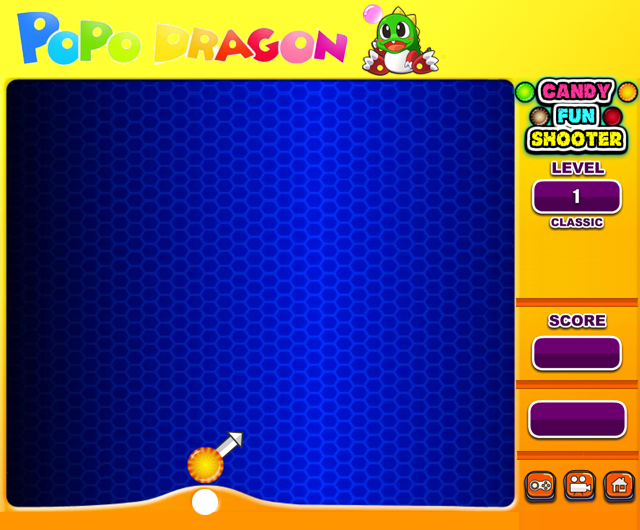
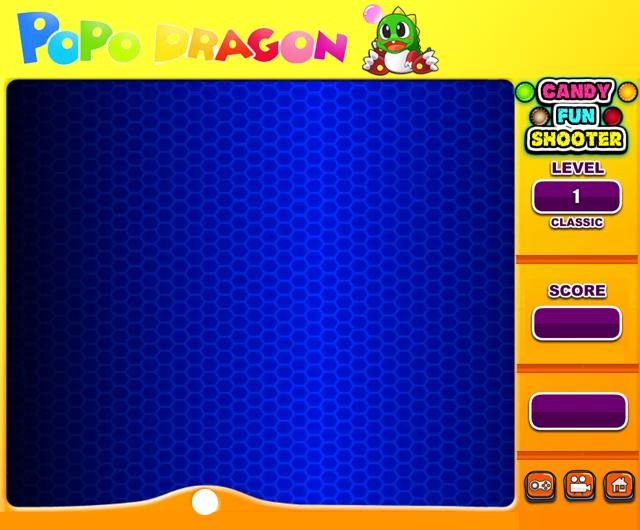
paopaolong: fix bug for shooting balls

Changed region(s): [[0.8125, 0.483, 1.0, 0.8453], [0.2812, 0.8151, 0.4062, 0.9358]]

diff --git a/paopaolong/src/main/webapp/resources/js/mylib.js b/paopaolong/src/main/webapp/resources/js/mylib.js
@@ -99,7 +99,7 @@ var EPG = {
 	},
 
 	isBallTouchLeftBoundary : function() {
-		if (EPG.getMovingBallLeft() <= 0) {
+		if (EPG.getMovingBallLeft() < 0) {
 			return true;
 		} else {
 			return false;
@@ -107,7 +107,7 @@ var EPG = {
 	},
 
 	isBallTouchRightBoundary : function() {
-		if (EPG.getMovingBallLeft() >= 468) {
+		if (EPG.getMovingBallLeft() > 468) {
 			return true;
 		} else {
 			return false;
@@ -148,21 +148,21 @@ var EPG = {
 
 	createBall : function(color, top, left) {
 		var newBallImg = EPG.createImg(color + "Ball", null, top, left, 38, 38);
-		var waitingBall = EPG.getElement("playboard").appendChild(newBallImg);
-		EPG.waitingBall = waitingBall;
+		EPG.getElement("playboard").appendChild(newBallImg);
+		EPG.waitingBall = newBallImg;
 	},
 
 	createWaitingBall : function(color) {
 		var newBallImg = EPG.createImg(color + "Ball", null, 366, 180, 38, 38);
-		var waitingBall = EPG.getElement("playboard").appendChild(newBallImg);
-		EPG.waitingBall = waitingBall;
+		EPG.getElement("playboard").appendChild(newBallImg);
+		EPG.waitingBall = newBallImg;
 	},
 
 	createNextBall : function() {
 		var color = parseInt(Math.random() * 4, 10);
 		var newBallImg = EPG.createImg(BALL_COLOR[color] + "Ball", null, 409, 185, 26, 26);
-		var nextBall = EPG.getElement("playboard").appendChild(newBallImg);
-		EPG.nextBall = nextBall;
+		EPG.getElement("playboard").appendChild(newBallImg);
+		EPG.nextBall = newBallImg;
 	},
 
 	arrowTurnRight : function() {
